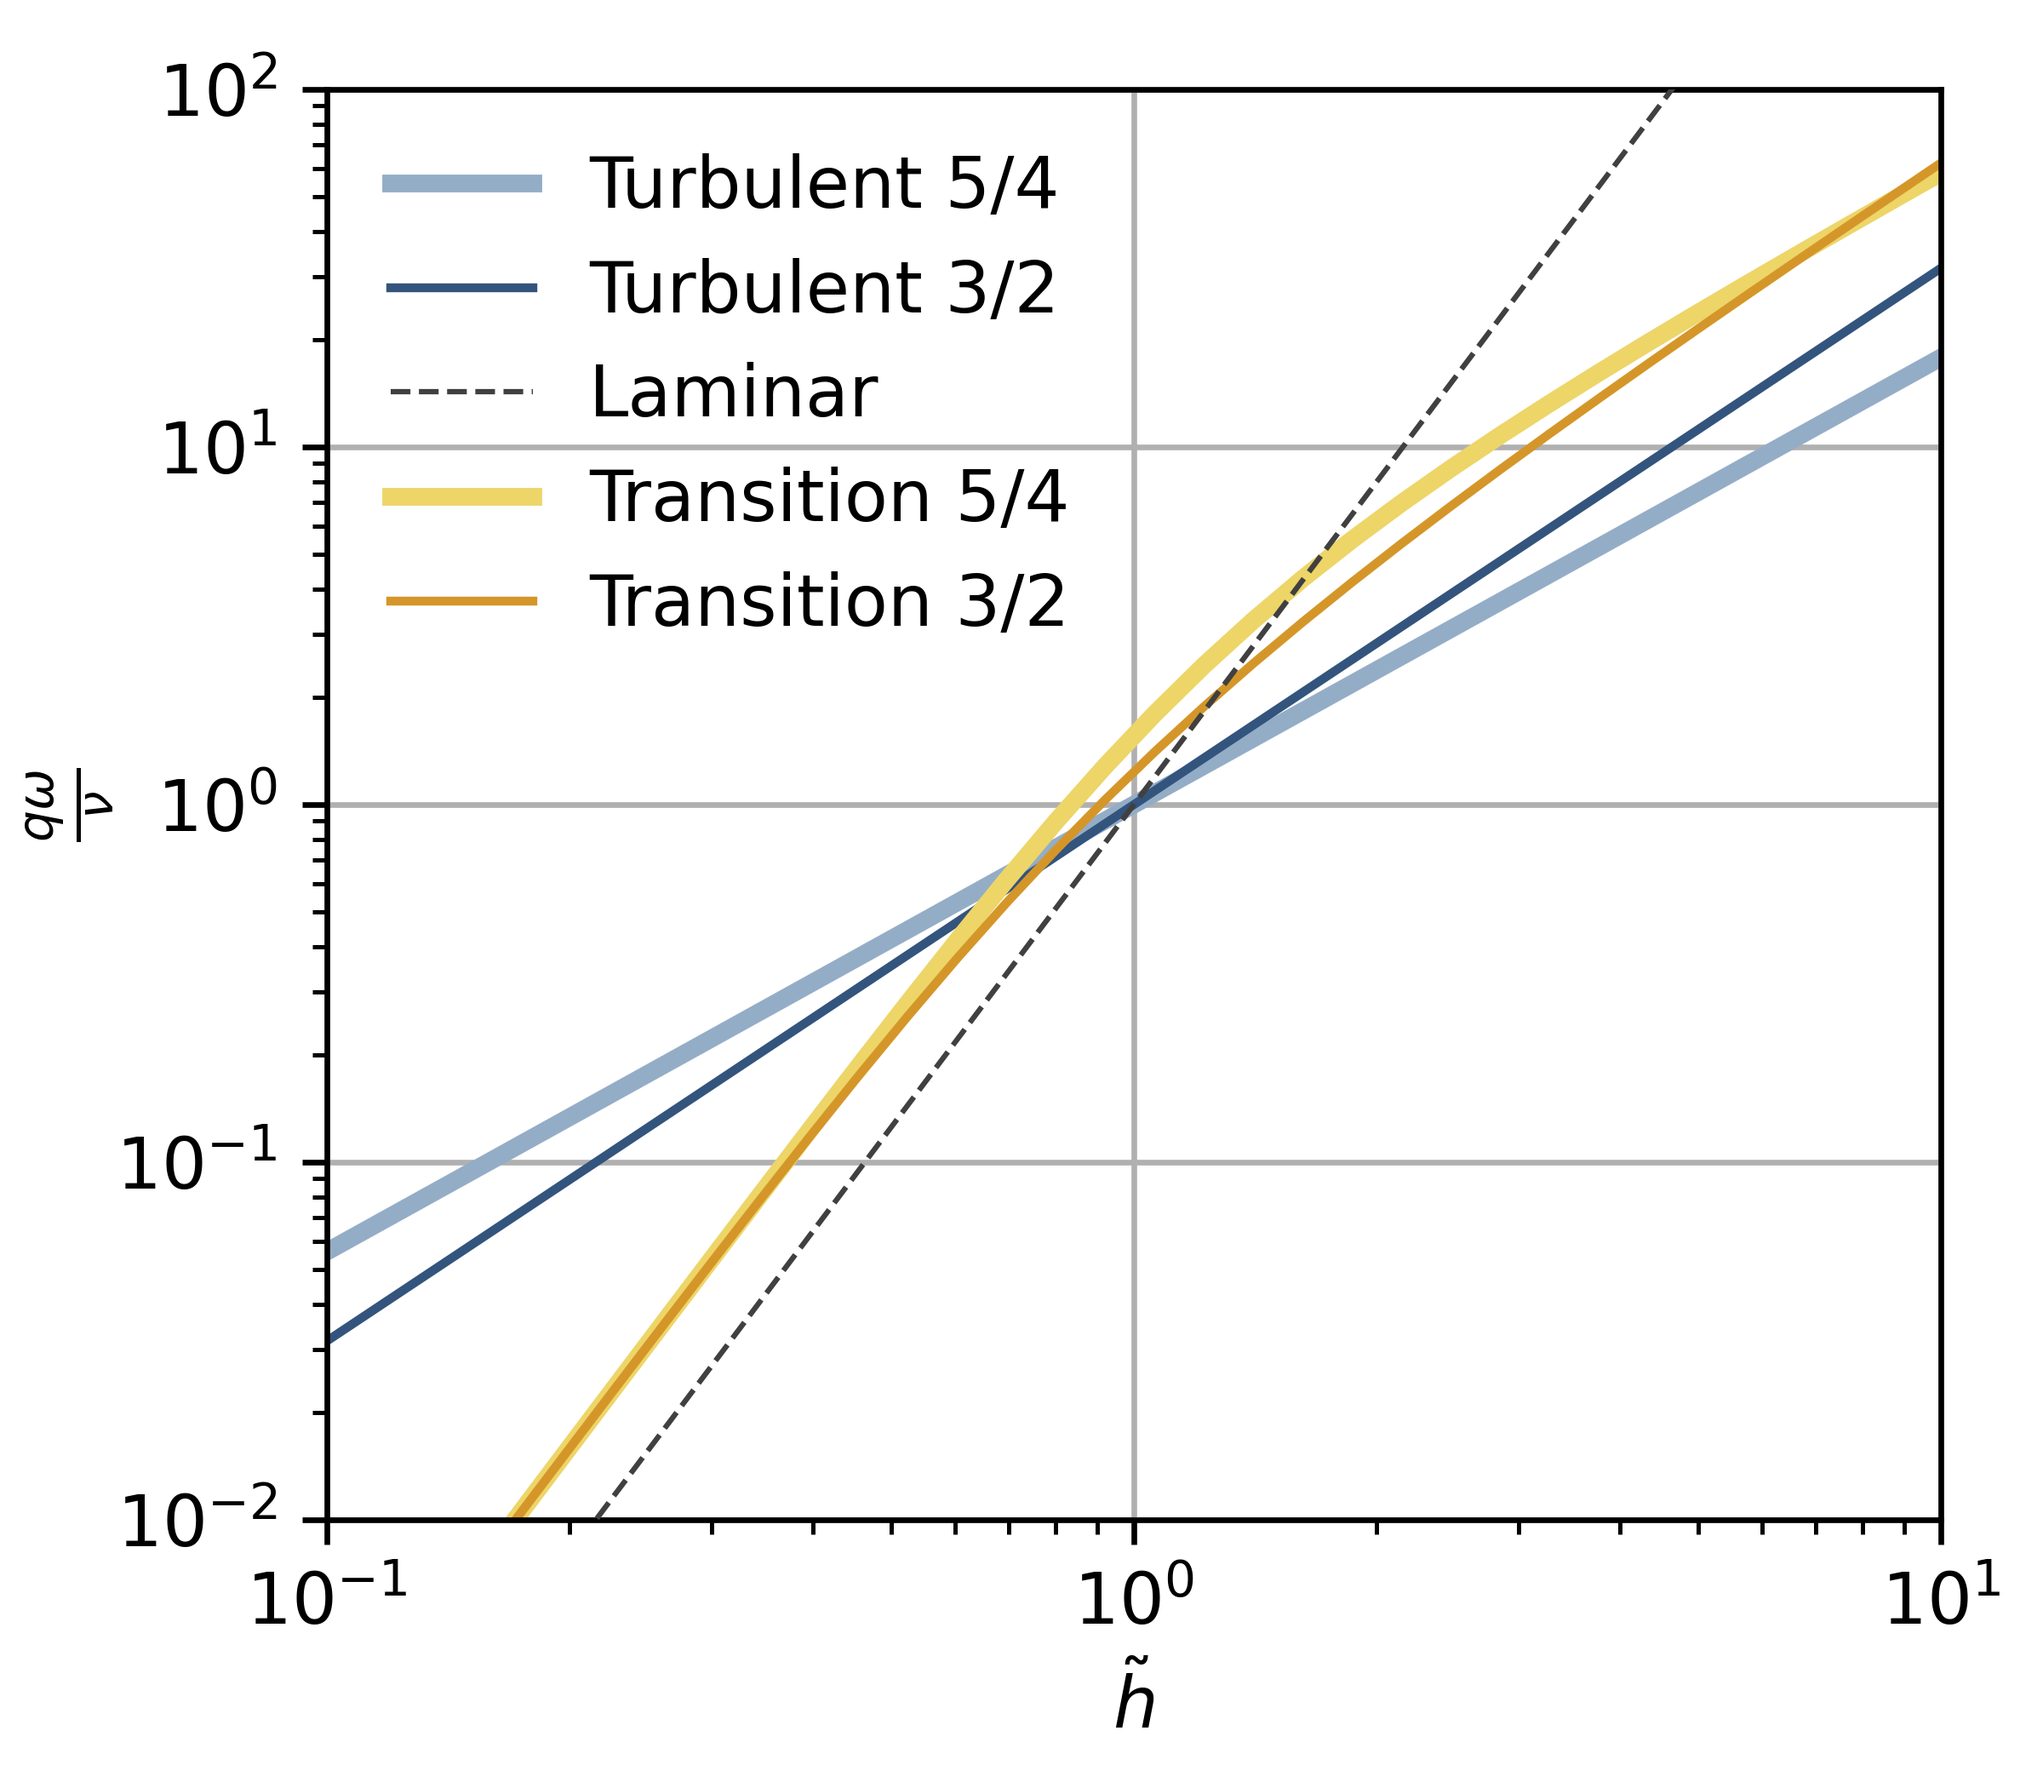
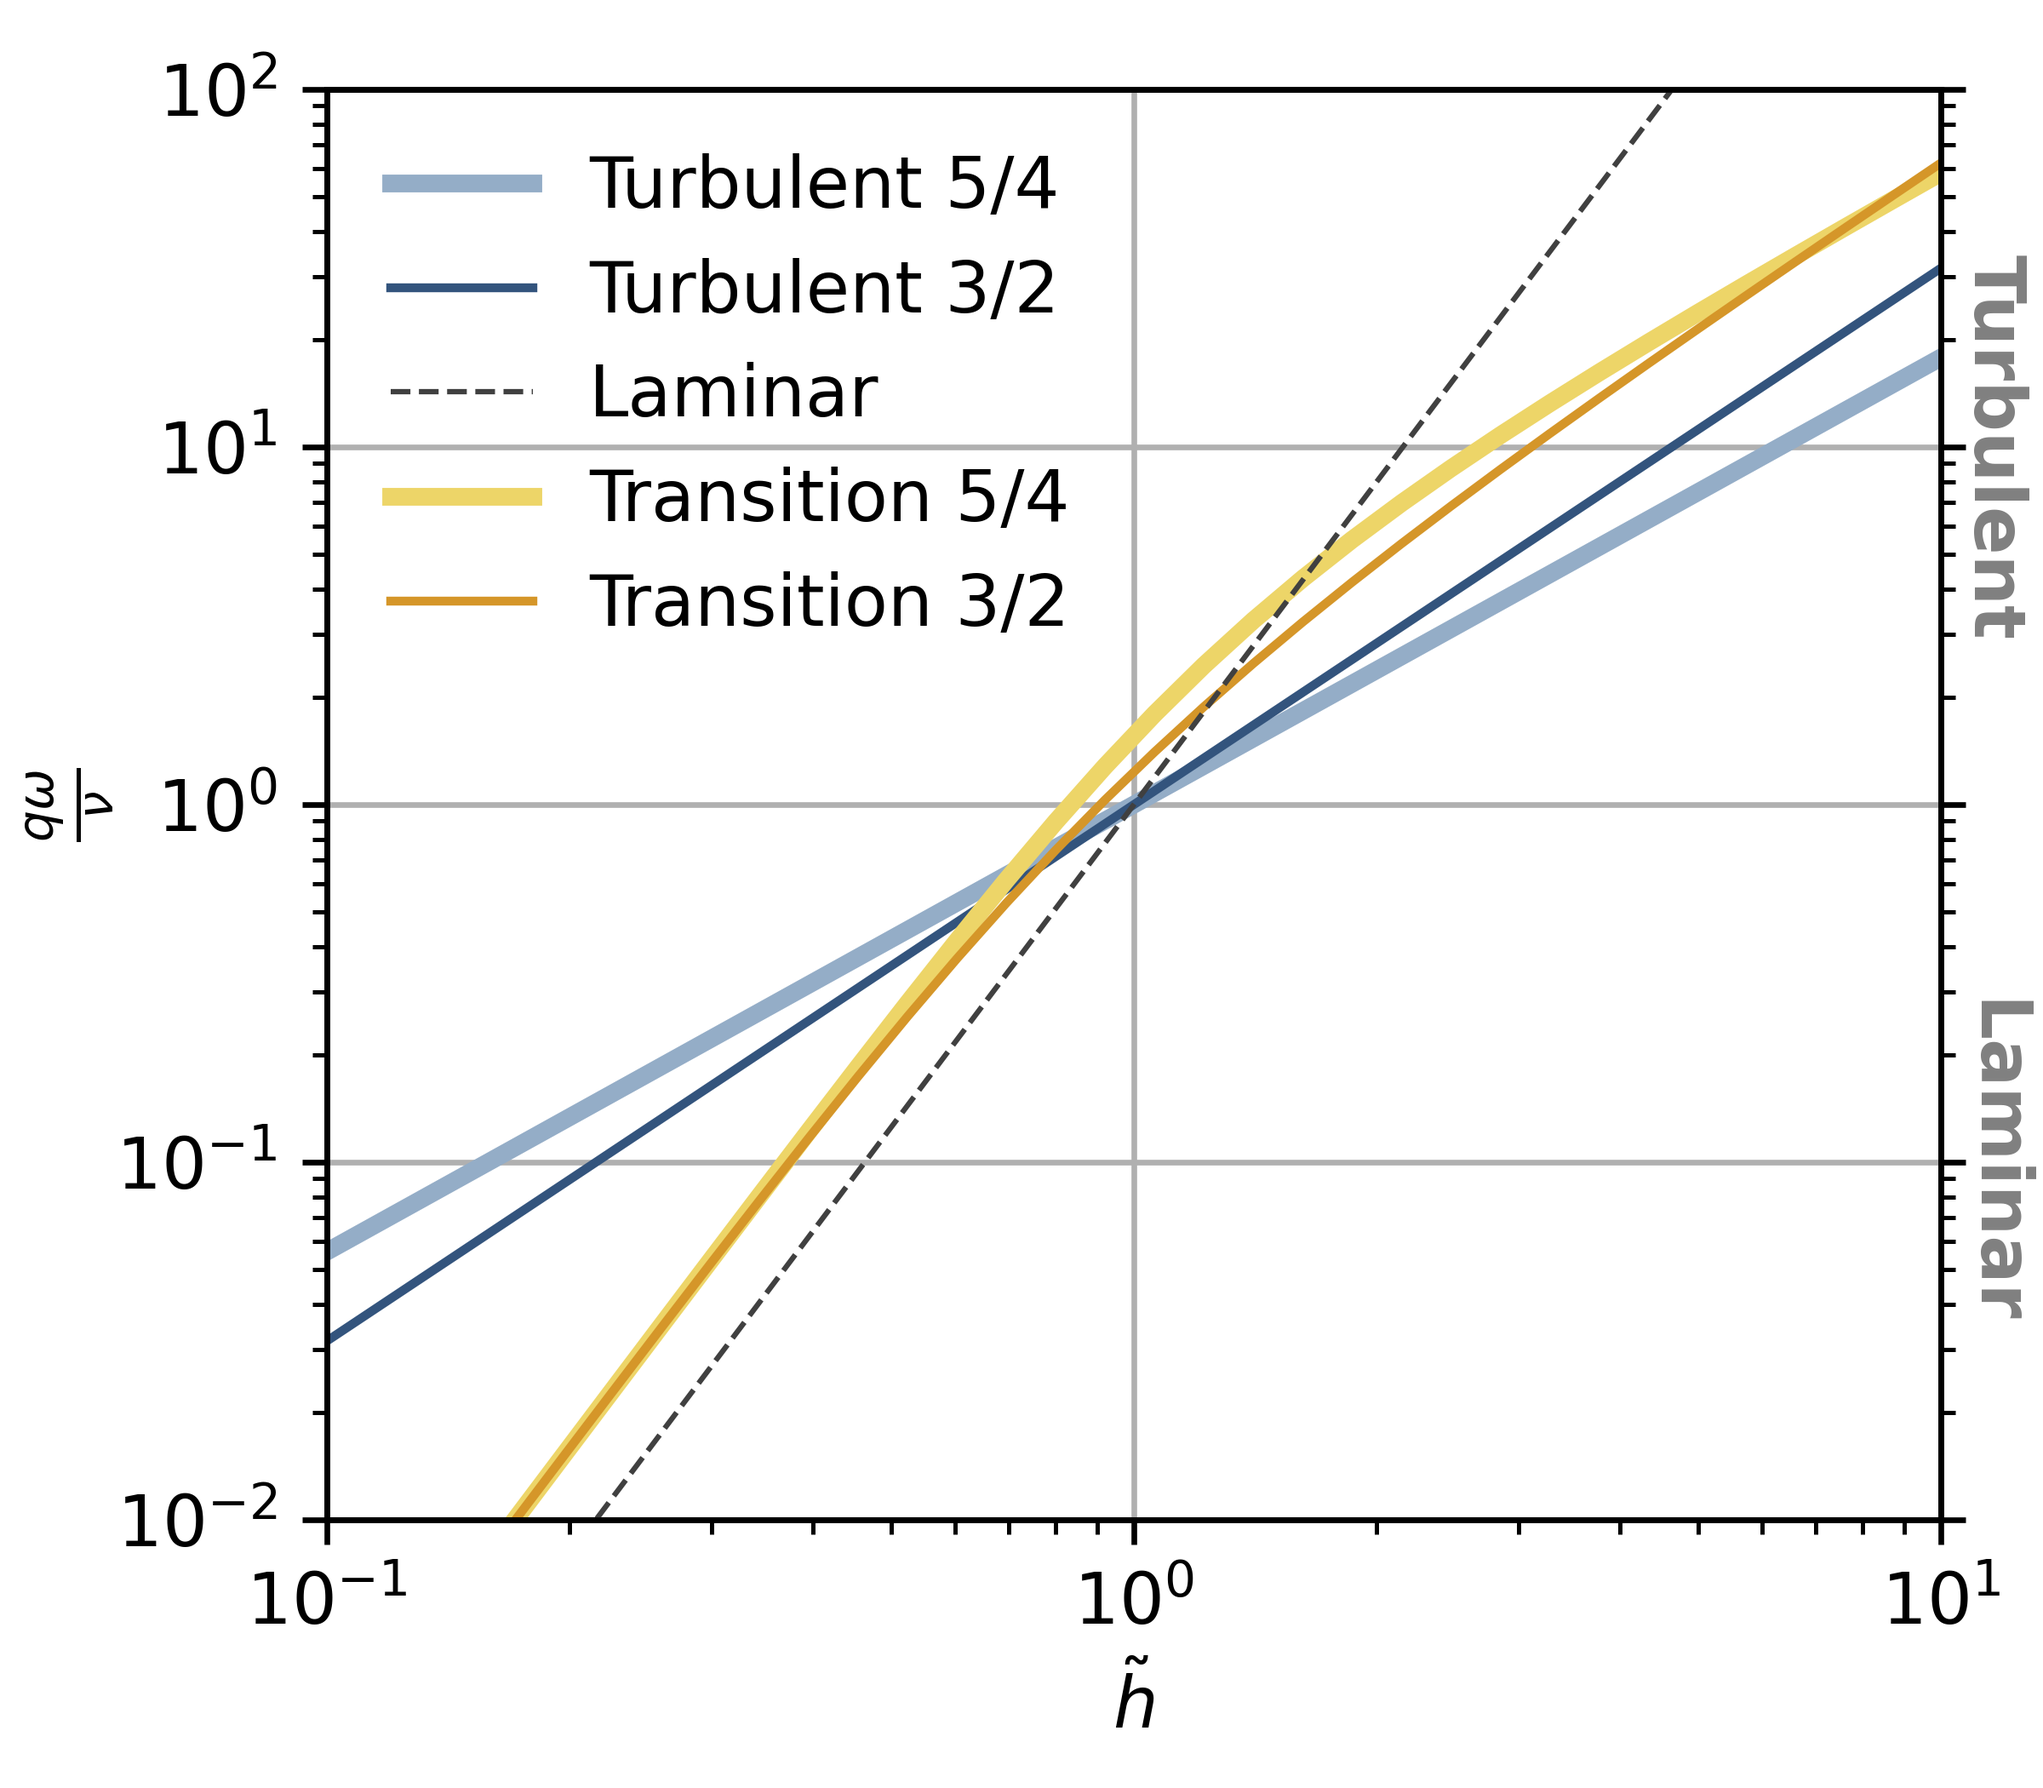
Figure updates

Changed region(s): [[0.9375, 0.1238, 1.0, 0.3714], [0.9688, 0.5571, 1.0, 0.7429]]

diff --git a/analysis/plot_flux_params.py b/analysis/plot_flux_params.py
@@ -65,6 +65,13 @@ ax.set_xlabel(r'$\tilde h$')
 ax.set_ylabel(r'$\frac{q \omega}{\nu}$', labelpad=0)
 ax.grid()
 
+ax2 = ax.twinx()
+ax2.set_ylim([1e-2, 1e2])
+ax2.set_yscale('log')
+ax2.set_yticks([1e-2, 1e-1, 1e0, 1e1, 1e2])
+ax2.set_yticklabels(['', 'Laminar', '', 'Turbulent', ''], fontweight='bold', color=(0.5, 0.5, 0.5), rotation=-90, ha='center', va='center')
+ax2.tick_params(axis='y', which='major', pad=4)
+
 fig.subplots_adjust(left=0.16, bottom=0.15, right=0.95, top=0.95)
 fig.savefig('flux_parameterizations.png', dpi=600)
 

diff --git a/glads/01_kan_forcing/set_paths.m b/glads/01_kan_forcing/set_paths.m
@@ -1,7 +1,7 @@
 % Template startup file for GlaDS example model runs:
-addpath(genpath('~/glads/GlaDS-matlab/'))
+% addpath(genpath('~/glads/GlaDS-matlab/'))
 % addpath(genpath('~/SFU-code/glads/glads_core/'))
-% addpath(genpath('~/SFU-code/glads/GlaDS-matliab/'))
+addpath(genpath('~/SFU-code/glads/GlaDS-matlab/'))
 addpath('../../')
 % this m-file adds all the paths from needed for running the model:
 load_glads_paths();
